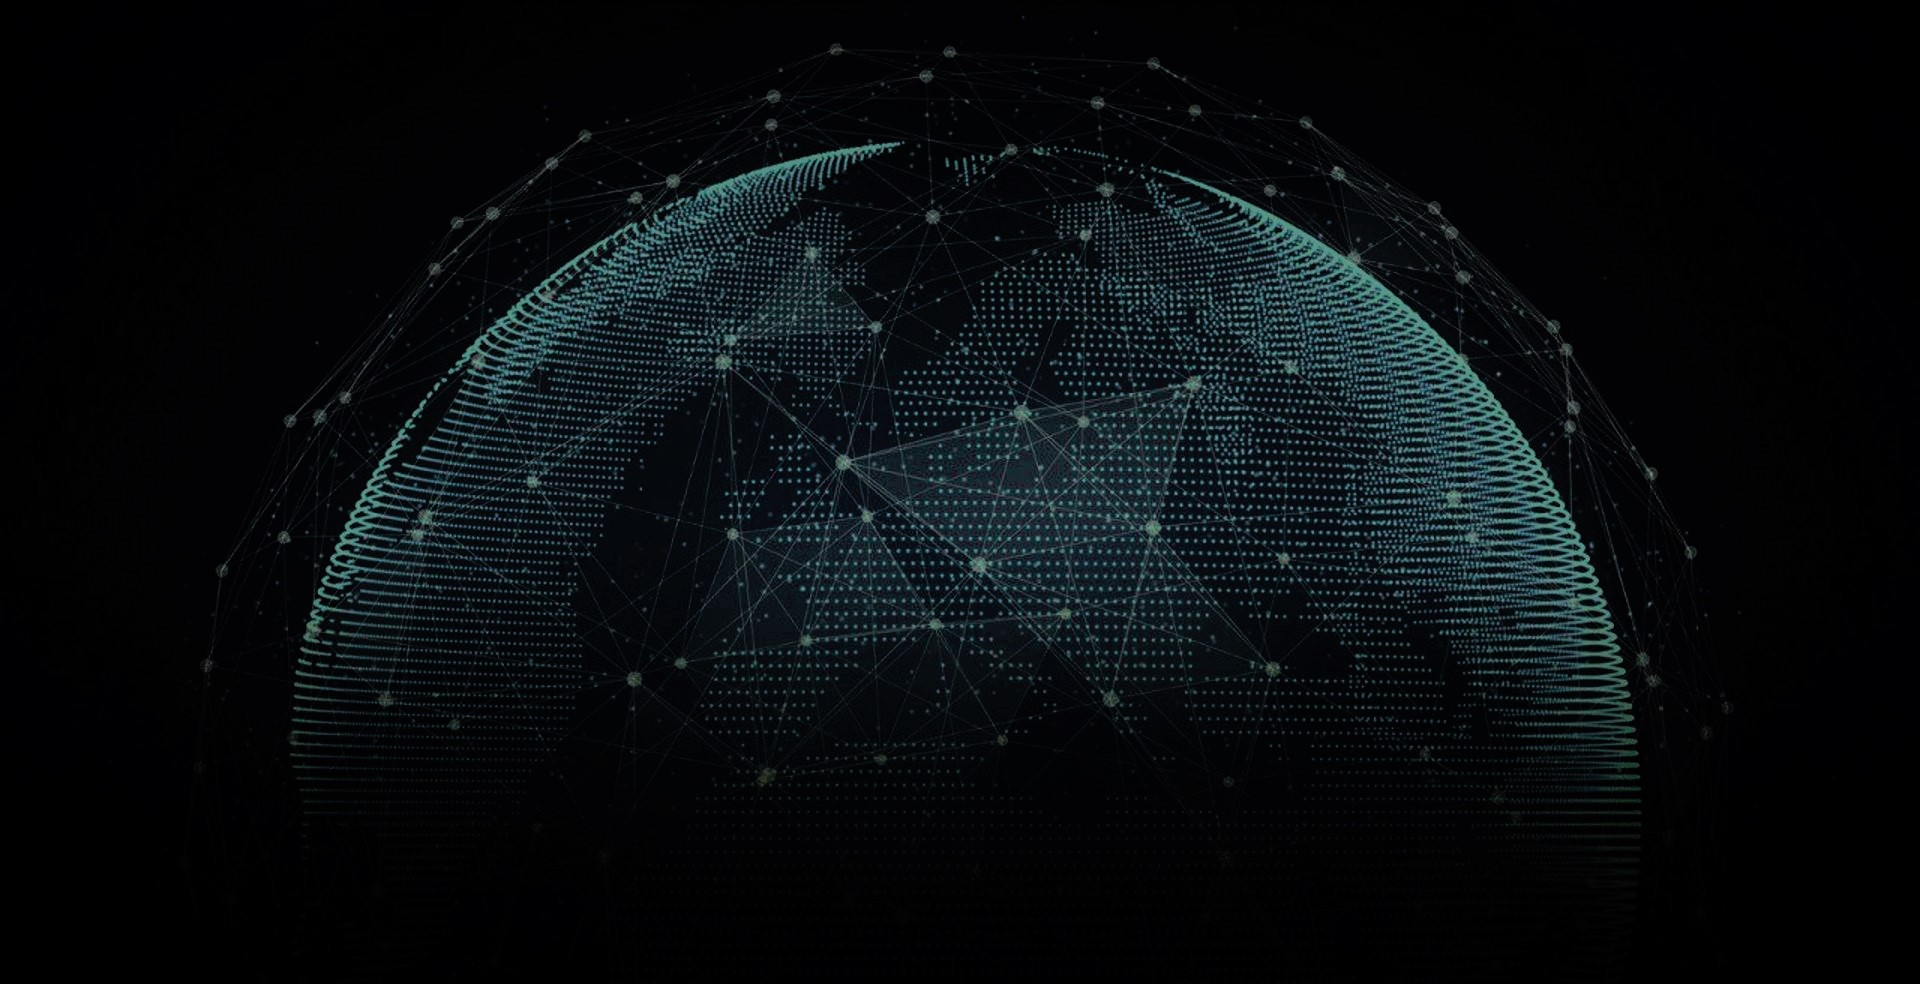
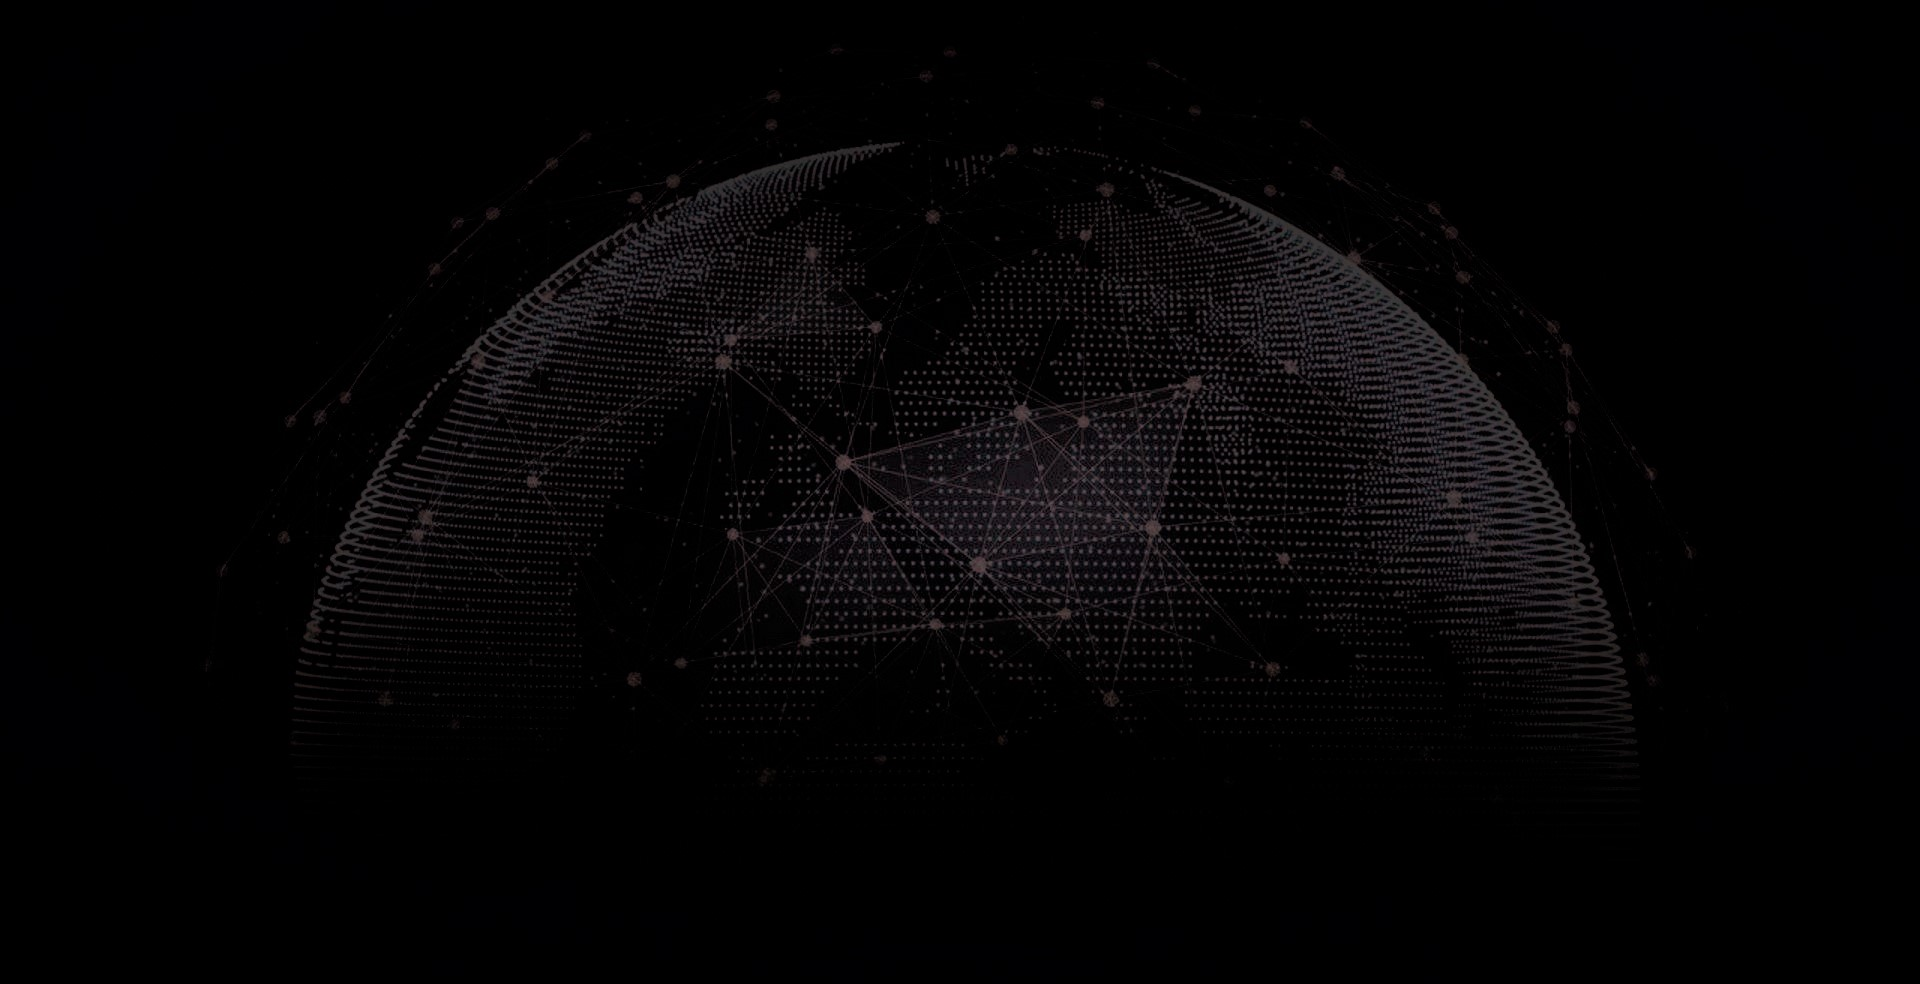
hero image

diff --git a/index.html b/index.html
@@ -86,7 +86,7 @@
     </header>
 
     <!-- Hero -->
-    <section class="fw-section bg-parallax" style="background-image: url(img/home/hero_planet.jpg); padding-bottom: 170px;" data-stellar-background-ratio="0.65" data-stellar-vertical-offset="50">
+    <section class="fw-section bg-parallax" style="background-image: url(img/home/hero_code.jpg); padding-bottom: 170px;" data-stellar-background-ratio="0.65" data-stellar-vertical-offset="50">
       <div class="container text-light">
         <h1 class="text-huge">We're a blockchain development and marketing experts.</h1>
         <p class="text-lg"><span class="text-underline">Experienced team</span> <span class="opacity-80">on</span> <span class="text-underline">4 continents</span><span class="opacity-80">, creating success of your ICO crowdsale.</span></p>
